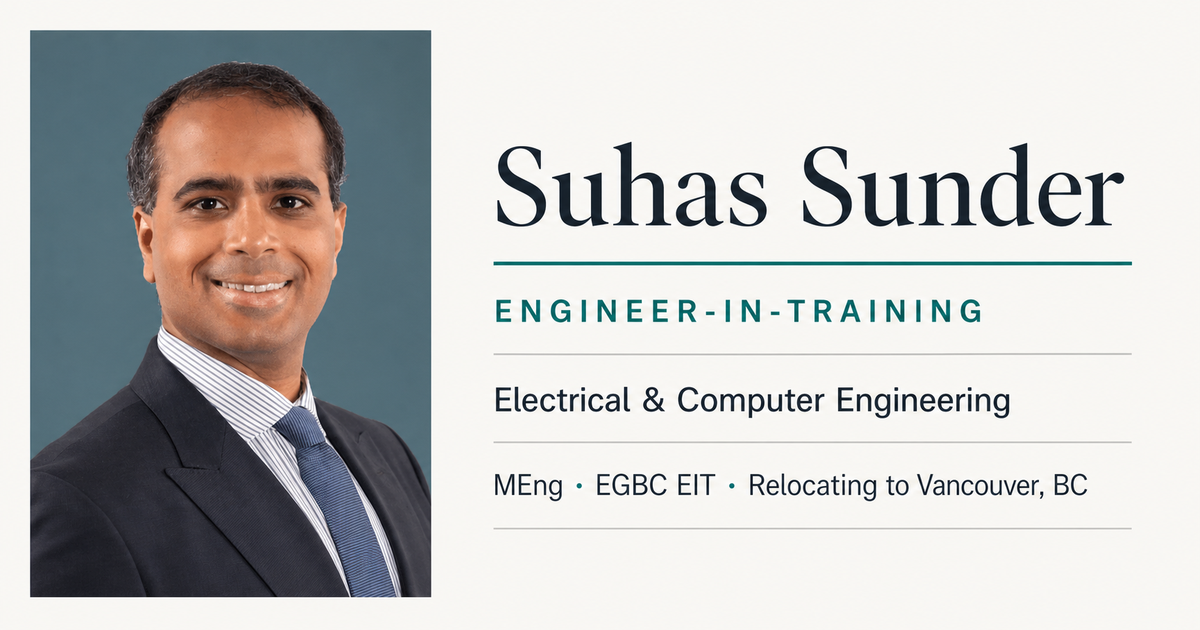
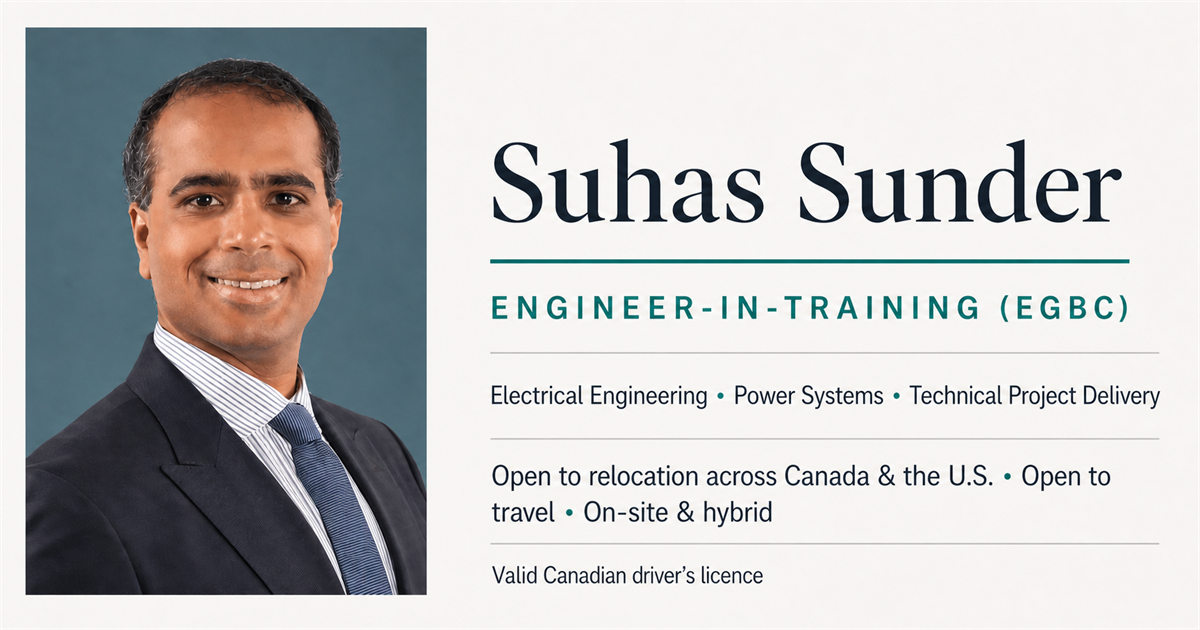
fix: clarify EIT hero positioning

diff --git a/src/components/Pages/Home.tsx b/src/components/Pages/Home.tsx
@@ -44,51 +44,52 @@ function Home() {
               />
             </div>
             <figcaption className="flex items-start justify-between gap-4 border-x border-b border-slate-300 bg-white px-4 py-3 text-xs font-semibold uppercase tracking-[0.12em] text-slate-500">
-              <span>Electrical & computer engineering</span>
-              <span className="whitespace-nowrap text-teal-700">EIT · BC</span>
+              <span>Engineering portfolio</span>
+              <span className="whitespace-nowrap text-teal-700">
+                EIT · EGBC
+              </span>
             </figcaption>
           </figure>
 
           <div className="order-1 min-w-0 lg:order-2">
-            <div className="flex flex-wrap items-center gap-3">
-              <span className="inline-flex min-h-8 items-center border border-teal-700 bg-teal-50 px-3 py-1 text-xs font-bold uppercase tracking-[0.16em] text-teal-800">
-                Engineer-in-Training
-              </span>
-              <span className="text-sm font-semibold text-slate-600">
-                Engineers and Geoscientists BC
-              </span>
-            </div>
-
-            <h1 className="mt-7 text-[clamp(2.7rem,7.5vw,5.8rem)] font-semibold leading-[0.92] tracking-[-0.055em] text-slate-950">
+            <h1 className="text-[clamp(2.7rem,7.5vw,5.8rem)] font-semibold leading-[0.92] tracking-[-0.055em] text-slate-950">
               Suhas Sunder
             </h1>
 
             <p className="mt-6 max-w-4xl text-[clamp(1.25rem,2.2vw,2rem)] font-medium leading-tight tracking-[-0.025em] text-slate-700">
-              Electrical & Computer Engineering
+              ENGINEER-IN-TRAINING (EGBC)
+            </p>
+
+            <p className="mt-4 max-w-4xl text-base font-semibold leading-7 text-teal-800 sm:text-lg">
+              Electrical Engineering • Power Systems • Technical Project
+              Delivery
             </p>
 
             <p className="mt-6 max-w-3xl text-base leading-7 text-slate-600 sm:text-lg sm:leading-8">
-              MEng graduate and registered EIT bringing approximately three
-              years of professional software development and technical
-              project-delivery experience. Graduate studies renewed a focused
-              commitment to electrical engineering and a long-term path toward
-              P.Eng. licensure.
+              Registered with Engineers and Geoscientists BC and recently
+              completed an MEng in Electrical and Computer Engineering. Brings
+              approximately three years of professional technical experience
+              across software development and project delivery while
+              deliberately pursuing a long-term engineering career and P.Eng.
+              licensure.
             </p>
 
-            <p className="mt-5 flex items-start gap-3 text-sm font-semibold text-slate-700 sm:text-base">
-              <FontAwesomeIcon
-                icon={faLocationDot}
-                className="mt-1 text-teal-700"
-                aria-hidden="true"
-              />
-              <span>
-                {siteConfig.location}
-                <span className="mx-2 text-slate-400" aria-hidden="true">
-                  →
-                </span>
-                {siteConfig.relocation}
-              </span>
-            </p>
+            <div className="mt-5 text-slate-700">
+              <p className="flex items-start gap-3 text-sm font-semibold sm:text-base">
+                <FontAwesomeIcon
+                  icon={faLocationDot}
+                  className="mt-1 text-teal-700"
+                  aria-hidden="true"
+                />
+                <span>{siteConfig.location}</span>
+              </p>
+              <p className="mt-3 max-w-4xl text-sm font-semibold leading-6 sm:text-base">
+                {siteConfig.availability}
+              </p>
+              <p className="mt-2 text-sm font-medium text-slate-600">
+                {siteConfig.driverLicence}
+              </p>
+            </div>
 
             <div className="mt-8 flex flex-wrap items-center gap-3">
               <ResumeLink />
@@ -132,32 +133,6 @@ function Home() {
               </a>
             </div>
 
-            <dl className="mt-10 grid border-y border-slate-300 sm:grid-cols-3">
-              <div className="py-4 sm:pr-5">
-                <dt className="text-[0.68rem] font-bold uppercase tracking-[0.16em] text-slate-500">
-                  Registration
-                </dt>
-                <dd className="mt-2 text-sm font-semibold leading-6 text-slate-900">
-                  EIT · Engineers and Geoscientists BC
-                </dd>
-              </div>
-              <div className="border-t border-slate-300 py-4 sm:border-l sm:border-t-0 sm:px-5">
-                <dt className="text-[0.68rem] font-bold uppercase tracking-[0.16em] text-slate-500">
-                  Graduate degree
-                </dt>
-                <dd className="mt-2 text-sm font-semibold leading-6 text-slate-900">
-                  MEng · Electrical & Computer Engineering
-                </dd>
-              </div>
-              <div className="border-t border-slate-300 py-4 sm:border-l sm:border-t-0 sm:pl-5">
-                <dt className="text-[0.68rem] font-bold uppercase tracking-[0.16em] text-slate-500">
-                  Career direction
-                </dt>
-                <dd className="mt-2 text-sm font-semibold leading-6 text-slate-900">
-                  Long-term engineering practice and P.Eng. licensure
-                </dd>
-              </div>
-            </dl>
           </div>
         </div>
       </header>

diff --git a/public/index.html b/public/index.html
@@ -6,7 +6,7 @@
     <meta name="theme-color" content="#f7f6f2" />
     <meta
       name="description"
-      content="Electrical and Computer Engineering portfolio of Suhas Sunder, Engineer-in-Training with Engineers and Geoscientists BC, featuring engineering analysis, MATLAB/Simulink modelling, electrical systems projects, project planning, and technical experience."
+      content="Engineering portfolio of Suhas Sunder, Engineer-in-Training registered with Engineers and Geoscientists BC, featuring electrical engineering projects, engineering analysis, MATLAB/Simulink modelling, project planning, and professional technical-delivery experience."
     />
     <meta property="og:type" content="website" />
     <meta property="og:site_name" content="Suhas Sunder" />
@@ -16,7 +16,7 @@
     />
     <meta
       property="og:description"
-      content="Engineer-in-Training with an MEng in Electrical and Computer Engineering. Explore engineering projects, analysis, project planning, and technical delivery experience."
+      content="Engineering portfolio of Suhas Sunder, Engineer-in-Training registered with Engineers and Geoscientists BC, featuring electrical engineering projects, analysis, and technical delivery experience."
     />
     <meta property="og:url" content="https://suhassunder.ca" />
     <meta property="og:image" content="https://suhassunder.ca/og.png" />

diff --git a/src/components/Pages/__tests__/Home.test.tsx b/src/components/Pages/__tests__/Home.test.tsx
@@ -15,12 +15,33 @@ describe("engineering portfolio home", () => {
   beforeEach(renderHome);
 
   it("renders the engineering-first hero", () => {
+    const hero = screen.getByRole("banner");
+
     expect(
       screen.getByRole("heading", { name: /suhas sunder/i, level: 1 }),
     ).toBeInTheDocument();
-    expect(screen.getAllByText(/electrical & computer engineering/i).length).toBeGreaterThan(0);
     expect(
-      within(screen.getByRole("banner")).queryByText(/software developer/i),
+      within(hero).getByText(/^engineer-in-training \(egbc\)$/i),
+    ).toBeInTheDocument();
+    expect(
+      within(hero).getByText(
+        /electrical engineering\s*•\s*power systems\s*•\s*technical project delivery/i,
+      ),
+    ).toBeInTheDocument();
+    expect(
+      within(hero).getByText(
+        /open to relocation across canada & the u\.s\. • open to travel • on-site & hybrid/i,
+      ),
+    ).toBeInTheDocument();
+    expect(
+      within(hero).getByText(/valid canadian driver’s licence/i),
+    ).toBeInTheDocument();
+    expect(
+      within(hero).queryByText(/^electrical & computer engineering$/i),
+    ).not.toBeInTheDocument();
+    expect(within(hero).queryByText(/relocating to vancouver/i)).not.toBeInTheDocument();
+    expect(
+      within(hero).queryByText(/software developer/i),
     ).not.toBeInTheDocument();
   });
 

diff --git a/src/config/site.ts b/src/config/site.ts
@@ -2,14 +2,17 @@ export const siteConfig = {
   name: "Suhas Sunder",
   title: "Electrical Engineering Portfolio",
   description:
-    "Electrical and Computer Engineering portfolio of Suhas Sunder, Engineer-in-Training with Engineers and Geoscientists BC, featuring engineering analysis, MATLAB/Simulink modelling, electrical systems projects, project planning, and technical experience.",
+    "Engineering portfolio of Suhas Sunder, Engineer-in-Training registered with Engineers and Geoscientists BC, featuring electrical engineering projects, engineering analysis, MATLAB/Simulink modelling, project planning, and professional technical-delivery experience.",
   url: "https://suhassunder.ca",
   email: "suhas@live.ca",
   phoneDisplay: "(647) 242-2969",
   phoneHref: "tel:+16472422969",
   linkedIn: "https://linkedin.com/in/s-sunder",
   location: "Toronto, ON",
-  relocation: "Relocating to Vancouver, BC",
+  mobility: "Open to relocation across Canada & the U.S.",
+  availability:
+    "Open to relocation across Canada & the U.S. • Open to travel • On-site & hybrid",
+  driverLicence: "Valid Canadian driver’s licence",
 
   // TODO: Replace null with the verified engineering-resume PDF URL or an
   // imported engineering-resume asset. Do not point this at the legacy

diff --git a/src/App.tsx b/src/App.tsx
@@ -22,7 +22,7 @@ function App() {
     url: siteConfig.url,
     email: `mailto:${siteConfig.email}`,
     telephone: siteConfig.phoneDisplay,
-    jobTitle: "Engineer-in-Training",
+    jobTitle: "Engineer-in-Training (EGBC)",
     homeLocation: {
       "@type": "Place",
       name: "Toronto, Ontario, Canada",
@@ -42,7 +42,7 @@ function App() {
     ],
     hasCredential: {
       "@type": "EducationalOccupationalCredential",
-      name: "Engineer-in-Training",
+      name: "Engineer-in-Training (EGBC)",
       recognizedBy: {
         "@type": "Organization",
         name: "Engineers and Geoscientists BC",
@@ -60,7 +60,7 @@ function App() {
         <meta name="description" content={siteConfig.description} />
         <meta
           name="keywords"
-          content="Suhas Sunder, Engineer-in-Training, electrical engineering, computer engineering, MATLAB, Simulink, engineering portfolio"
+          content="Suhas Sunder, Engineer-in-Training EGBC, electrical engineering, power systems, MATLAB, Simulink, engineering portfolio"
         />
         <link rel="canonical" href={siteConfig.url} />
         <meta property="og:type" content="website" />

diff --git a/src/components/Form/Contact.tsx b/src/components/Form/Contact.tsx
@@ -164,7 +164,7 @@ function Contact() {
             number="06 / 06"
             eyebrow="Contact"
             title="Start a conversation"
-            description="For electrical engineering, infrastructure, industrial, electrification, and early-career project-delivery opportunities in British Columbia."
+            description="For electrical engineering, infrastructure, industrial, electrification, and early-career project-delivery opportunities across Canada and the United States."
           />
         </div>
 
@@ -180,9 +180,9 @@ function Contact() {
                 aria-hidden="true"
               />
               <span>
-                Toronto, ON
+                {siteConfig.location}
                 <br />
-                Relocating to Vancouver, BC
+                {siteConfig.mobility}
               </span>
             </p>
 

diff --git a/src/components/Layout/Education.tsx b/src/components/Layout/Education.tsx
@@ -24,7 +24,7 @@ export default function Education() {
               Professional credential
             </p>
             <h3 className="mt-5 text-3xl font-semibold tracking-tight text-slate-950">
-              Engineer-in-Training
+              Engineer-in-Training (EGBC)
             </h3>
             <p className="mt-3 text-base font-semibold leading-7 text-slate-700">
               Engineers and Geoscientists BC

diff --git a/src/components/Navigation/__tests__/NavBar.test.js b/src/components/Navigation/__tests__/NavBar.test.js
@@ -36,6 +36,13 @@ describe("primary navigation", () => {
     );
   });
 
+  it("identifies the professional designation with the regulator", () => {
+    renderNavBar();
+    expect(
+      screen.getAllByText(/^engineer-in-training \(egbc\)$/i),
+    ).toHaveLength(2);
+  });
+
   it("shows the resume control as pending without a legacy link", () => {
     renderNavBar();
     expect(

diff --git a/src/components/Navigation/MobileNav.tsx b/src/components/Navigation/MobileNav.tsx
@@ -54,7 +54,7 @@ export default function MobileNav() {
               Suhas Sunder
             </span>
             <span className="block text-[0.62rem] font-bold uppercase tracking-[0.13em] text-teal-700 max-[359px]:hidden">
-              EIT · Electrical Engineering
+              Engineer-in-Training (EGBC)
             </span>
           </span>
         </Link>

diff --git a/src/components/Navigation/NavBar.tsx b/src/components/Navigation/NavBar.tsx
@@ -26,7 +26,7 @@ export default function NavBar() {
                 Suhas Sunder
               </span>
               <span className="block text-[0.65rem] font-bold uppercase tracking-[0.14em] text-teal-700">
-                Engineer-in-Training
+                Engineer-in-Training (EGBC)
               </span>
             </span>
           </Link>
